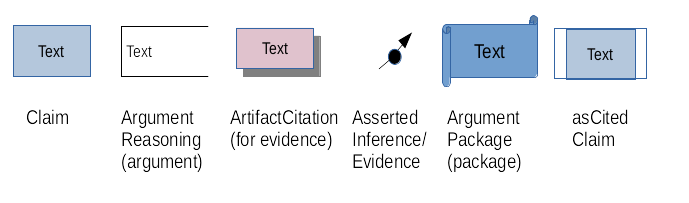
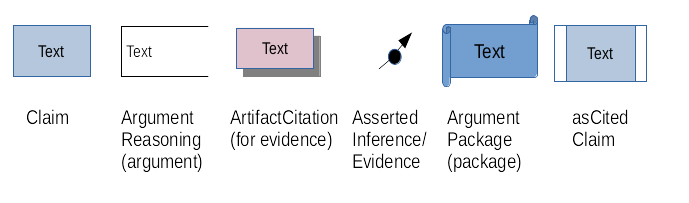
Tweak for asCited

Changed region(s): [[0.7925, 0.3842, 0.9448, 0.4138], [0.7925, 0.1182, 0.9448, 0.1478], [0.8534, 0.2365, 0.8839, 0.2956]]

diff --git a/doc/security.md b/doc/security.md
@@ -219,7 +219,8 @@ Here is the subset of the SACM graphical notation that we use:
    and not supported by our drawing tool.
 6. *asCited Claim*.
    An asCited Claim is a claim expanded elsewhere, that is, a cross-reference.
-   Its text shows its containing package and claim id.
+   Its description text shows its containing package, followed by the
+   claim id in square brackets.
    This is represented as a bracketed rectangle.
 
 ![SACM notation summary](./sacm.png)
